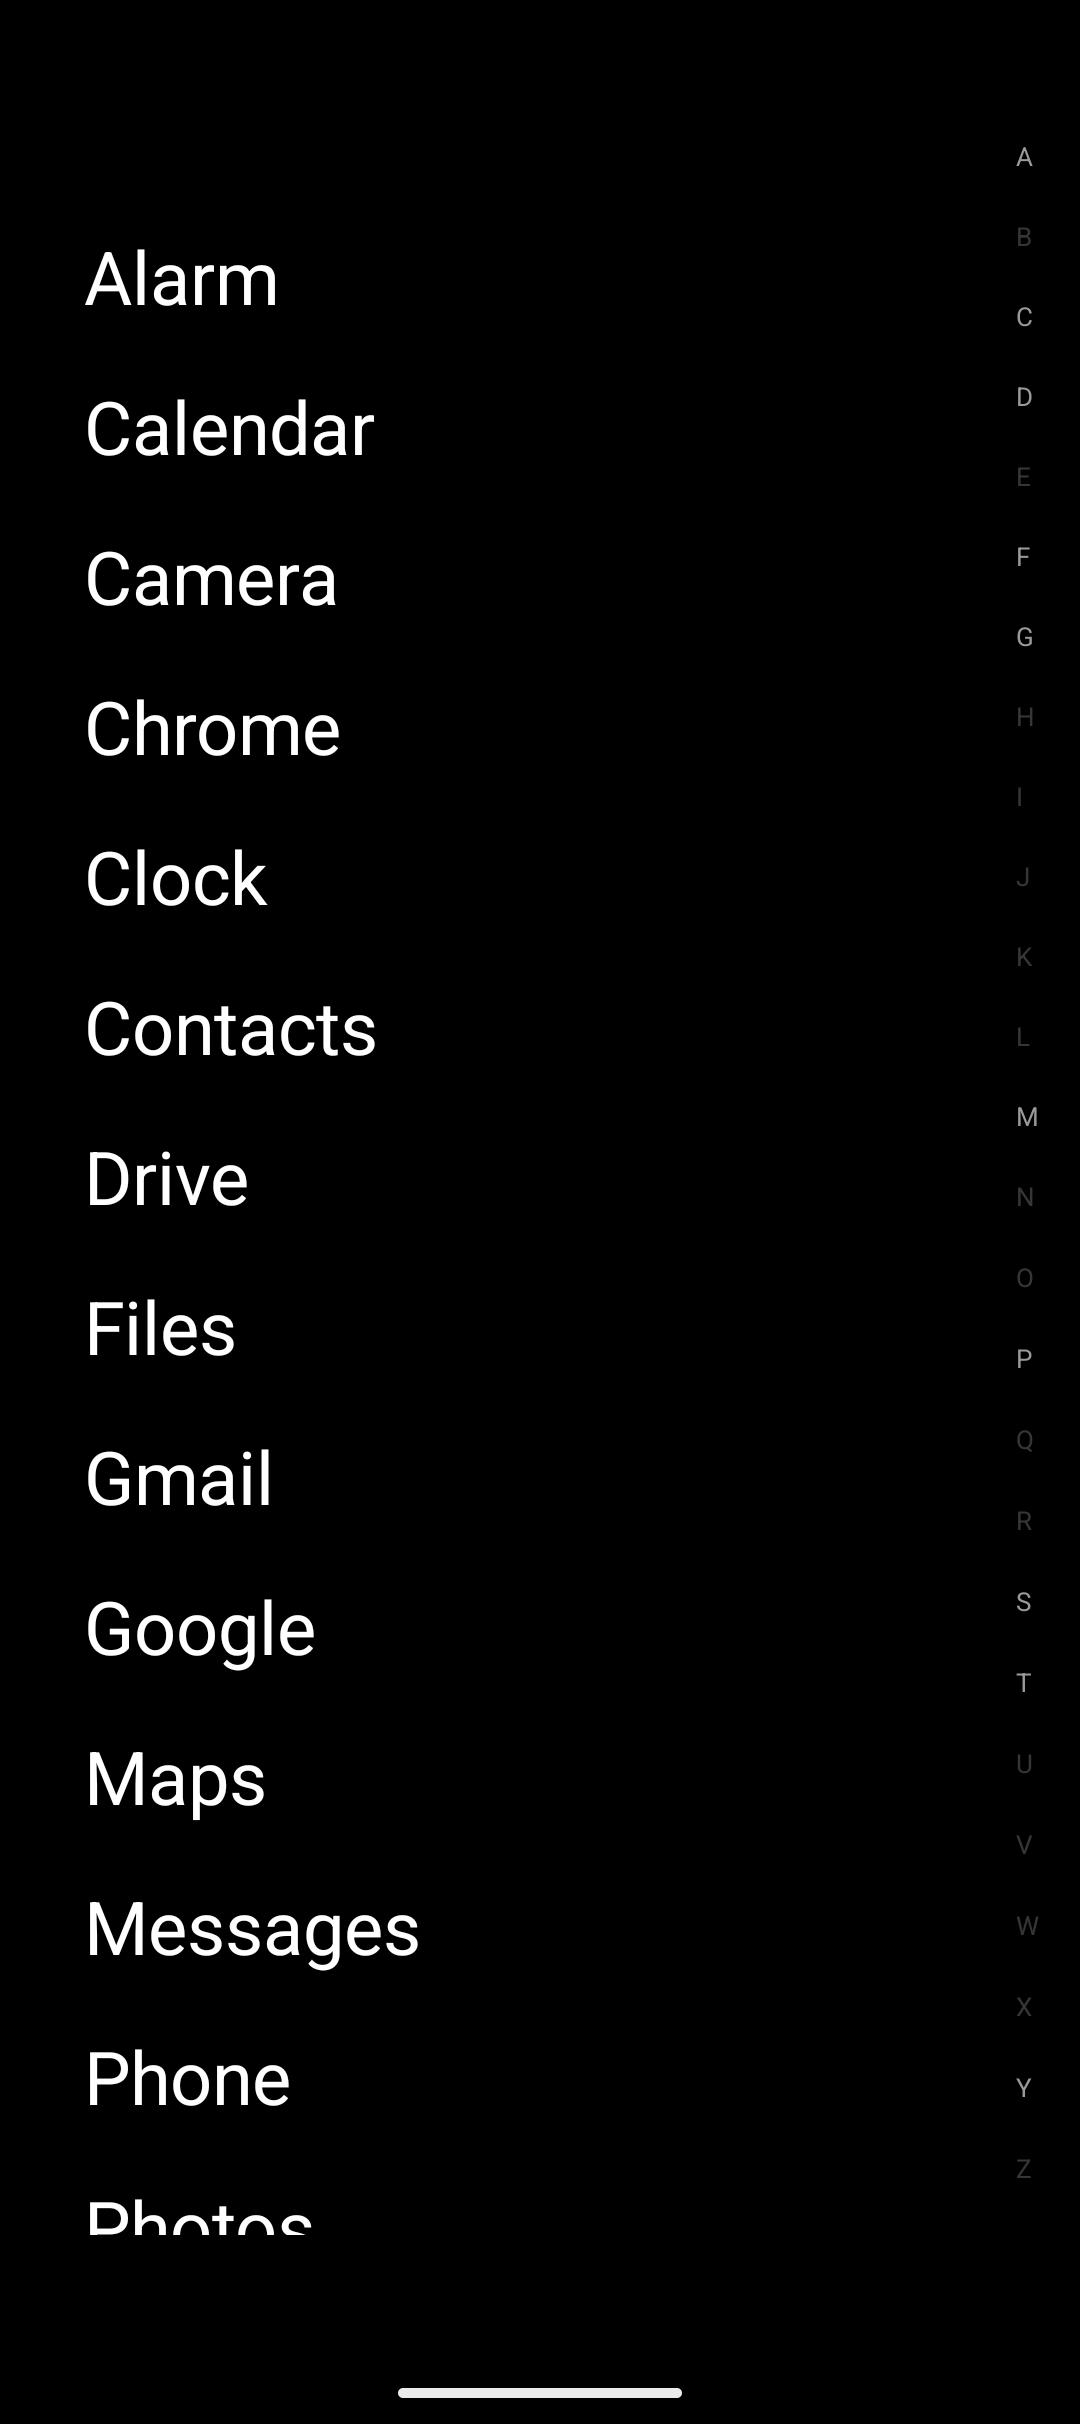
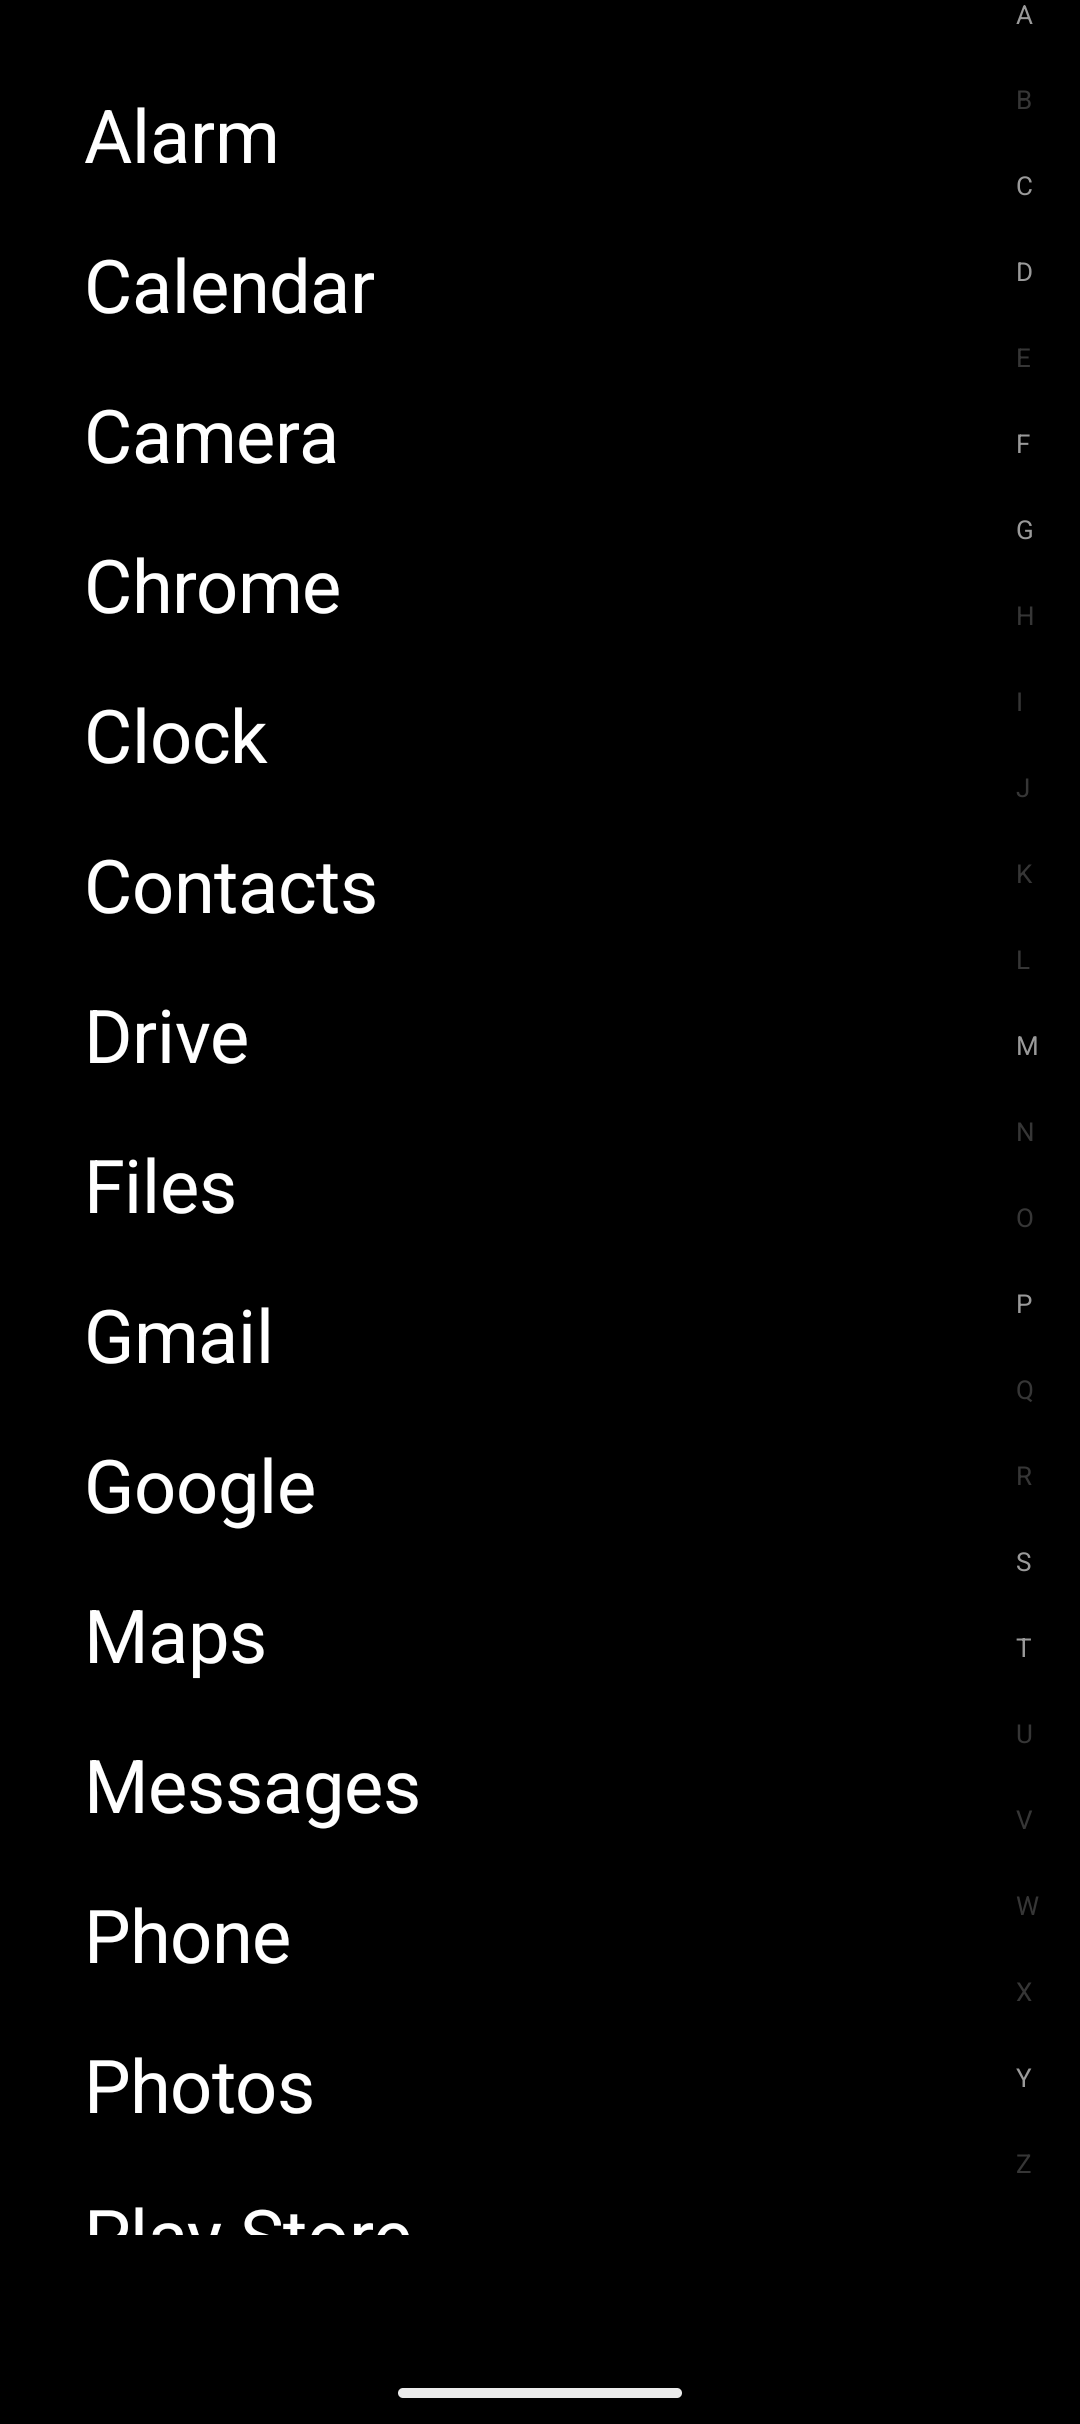
Add a Hide status bar setting, on by default
Uses WindowInsetsControllerCompat to hide the system status bar for a
cleaner look, with BEHAVIOR_SHOW_TRANSIENT_BARS_BY_SWIPE so swiping
down from the top edge still reveals it temporarily rather than
locking the user out of quick settings/notifications entirely.
Applies live when toggled, no restart needed.

Verified hidden by default on both the emulator (dumpsys window) and
the Samsung S24 (InsetsSource ... type=statusBars visible=false).

Closes #10

Changed region(s): [[0.0611, 0.0928, 0.3972, 0.9282], [0.0917, 0.0309, 0.2444, 0.0619]]

diff --git a/app/src/main/java/nl/petervanmanen/minimalauncher/data/repository/SettingsRepository.kt b/app/src/main/java/nl/petervanmanen/minimalauncher/data/repository/SettingsRepository.kt
@@ -11,6 +11,7 @@ private val ALLOW_ROTATION_KEY = booleanPreferencesKey("allow_rotation")
 private val SHOW_WEATHER_KEY = booleanPreferencesKey("show_weather")
 private val SHOW_MAP_KEY = booleanPreferencesKey("show_map")
 private val SHOW_DATE_KEY = booleanPreferencesKey("show_date")
+private val HIDE_STATUS_BAR_KEY = booleanPreferencesKey("hide_status_bar")
 
 /** Whether the launcher may rotate with the device (off by default), and which dashboard sections are shown. */
 class SettingsRepository(context: Context) {
@@ -20,6 +21,7 @@ class SettingsRepository(context: Context) {
     val showWeather: Flow<Boolean> = appContext.launcherDataStore.data.map { it[SHOW_WEATHER_KEY] ?: true }
     val showMap: Flow<Boolean> = appContext.launcherDataStore.data.map { it[SHOW_MAP_KEY] ?: true }
     val showDate: Flow<Boolean> = appContext.launcherDataStore.data.map { it[SHOW_DATE_KEY] ?: true }
+    val hideStatusBar: Flow<Boolean> = appContext.launcherDataStore.data.map { it[HIDE_STATUS_BAR_KEY] ?: true }
 
     suspend fun setAllowRotation(allow: Boolean) {
         appContext.launcherDataStore.edit { it[ALLOW_ROTATION_KEY] = allow }
@@ -35,5 +37,9 @@ class SettingsRepository(context: Context) {
 
     suspend fun setShowDate(show: Boolean) {
         appContext.launcherDataStore.edit { it[SHOW_DATE_KEY] = show }
+    }
+
+    suspend fun setHideStatusBar(hide: Boolean) {
+        appContext.launcherDataStore.edit { it[HIDE_STATUS_BAR_KEY] = hide }
     }
 }

diff --git a/app/src/main/java/nl/petervanmanen/minimalauncher/MainActivity.kt b/app/src/main/java/nl/petervanmanen/minimalauncher/MainActivity.kt
@@ -8,6 +8,9 @@ import androidx.activity.enableEdgeToEdge
 import androidx.compose.foundation.layout.fillMaxSize
 import androidx.compose.material3.Surface
 import androidx.compose.ui.Modifier
+import androidx.core.view.WindowCompat
+import androidx.core.view.WindowInsetsCompat
+import androidx.core.view.WindowInsetsControllerCompat
 import androidx.lifecycle.lifecycleScope
 import kotlinx.coroutines.launch
 import nl.petervanmanen.minimalauncher.ui.pager.RootPagerScreen
@@ -27,6 +30,19 @@ class MainActivity : ComponentActivity() {
                     ActivityInfo.SCREEN_ORIENTATION_UNSPECIFIED
                 } else {
                     ActivityInfo.SCREEN_ORIENTATION_PORTRAIT
+                }
+            }
+        }
+
+        lifecycleScope.launch {
+            container.settingsRepository.hideStatusBar.collect { hide ->
+                val insetsController = WindowCompat.getInsetsController(window, window.decorView)
+                insetsController.systemBarsBehavior =
+                    WindowInsetsControllerCompat.BEHAVIOR_SHOW_TRANSIENT_BARS_BY_SWIPE
+                if (hide) {
+                    insetsController.hide(WindowInsetsCompat.Type.statusBars())
+                } else {
+                    insetsController.show(WindowInsetsCompat.Type.statusBars())
                 }
             }
         }

diff --git a/app/src/main/java/nl/petervanmanen/minimalauncher/ui/dock/DockEditOverlay.kt b/app/src/main/java/nl/petervanmanen/minimalauncher/ui/dock/DockEditOverlay.kt
@@ -56,6 +56,7 @@ fun DockEditOverlay(viewModel: DockViewModel, currentPageIndex: Int) {
     val showWeather by viewModel.showWeather.collectAsState()
     val showMap by viewModel.showMap.collectAsState()
     val showDate by viewModel.showDate.collectAsState()
+    val hideStatusBar by viewModel.hideStatusBar.collectAsState()
     val installedApps by viewModel.installedApps.collectAsState()
     val mapsAppPackage by viewModel.mapsAppPackage.collectAsState()
     val weatherAppPackage by viewModel.weatherAppPackage.collectAsState()
@@ -77,6 +78,8 @@ fun DockEditOverlay(viewModel: DockViewModel, currentPageIndex: Int) {
                     onShowMapChange = { viewModel.setShowMap(it) },
                     showDate = showDate,
                     onShowDateChange = { viewModel.setShowDate(it) },
+                    hideStatusBar = hideStatusBar,
+                    onHideStatusBarChange = { viewModel.setHideStatusBar(it) },
                     installedApps = installedApps,
                     mapsAppPackage = mapsAppPackage,
                     onMapsAppChange = { app -> viewModel.setMapsApp(app.packageName) },

diff --git a/app/src/main/java/nl/petervanmanen/minimalauncher/ui/dock/DockViewModel.kt b/app/src/main/java/nl/petervanmanen/minimalauncher/ui/dock/DockViewModel.kt
@@ -37,6 +37,8 @@ class DockViewModel(
         .stateIn(viewModelScope, SharingStarted.WhileSubscribed(5_000), true)
     val showDate: StateFlow<Boolean> = settingsRepository.showDate
         .stateIn(viewModelScope, SharingStarted.WhileSubscribed(5_000), true)
+    val hideStatusBar: StateFlow<Boolean> = settingsRepository.hideStatusBar
+        .stateIn(viewModelScope, SharingStarted.WhileSubscribed(5_000), true)
 
     val mapsAppPackage: StateFlow<String?> = appLinkRepository.mapsAppPackage
         .stateIn(viewModelScope, SharingStarted.WhileSubscribed(5_000), null)
@@ -81,6 +83,8 @@ class DockViewModel(
     fun setShowMap(show: Boolean) = viewModelScope.launch { settingsRepository.setShowMap(show) }
 
     fun setShowDate(show: Boolean) = viewModelScope.launch { settingsRepository.setShowDate(show) }
+
+    fun setHideStatusBar(hide: Boolean) = viewModelScope.launch { settingsRepository.setHideStatusBar(hide) }
 
     fun setMapsApp(packageName: String) = viewModelScope.launch { appLinkRepository.setMapsApp(packageName) }
 

diff --git a/app/src/main/java/nl/petervanmanen/minimalauncher/ui/settings/SettingsScreen.kt b/app/src/main/java/nl/petervanmanen/minimalauncher/ui/settings/SettingsScreen.kt
@@ -42,6 +42,8 @@ fun SettingsScreen(
     onShowMapChange: (Boolean) -> Unit,
     showDate: Boolean,
     onShowDateChange: (Boolean) -> Unit,
+    hideStatusBar: Boolean,
+    onHideStatusBarChange: (Boolean) -> Unit,
     installedApps: List<InstalledApp>,
     mapsAppPackage: String?,
     onMapsAppChange: (InstalledApp) -> Unit,
@@ -96,6 +98,8 @@ fun SettingsScreen(
         ToggleRow("Show map", showMap, onShowMapChange)
         Spacer(modifier = Modifier.height(20.dp))
         ToggleRow("Show date", showDate, onShowDateChange)
+        Spacer(modifier = Modifier.height(20.dp))
+        ToggleRow("Hide status bar", hideStatusBar, onHideStatusBarChange)
 
         Spacer(modifier = Modifier.height(24.dp))
 

diff --git a/FEATURES.md b/FEATURES.md
@@ -103,6 +103,11 @@ The app is one `HorizontalPager` of three screens, dock in the center
 - [ ] **Show weather** / **Show map** / **Show date** toggles, each default
   **On**, independently show/hide their dashboard section regardless of
   location permission state. [#7]
+- [ ] **Hide status bar** toggle, default **On** (hidden by default for a
+  clean look). Applies live without restarting the app; swiping down from
+  the top edge still transiently reveals it (`BEHAVIOR_SHOW_TRANSIENT_BARS_
+  BY_SWIPE`), it doesn't lock the user out of quick settings/notifications
+  entirely. [#10]
 - [ ] **Maps app** / **Weather app** / **Date app** rows show the currently
   configured app's label (or "Not set"), and tapping opens the same
   alphabetical app picker used elsewhere to change it — a second way to

diff --git a/README.md b/README.md
@@ -24,8 +24,9 @@ link on your phone (or transfer the file over) and tap to install — see
 - **Settings** live inside that same dock editor — tap "Settings" next to the
   "×" in its header. From there: toggle whether the app follows the device's
   rotation (off by default), show/hide the weather, map, and date sections
-  independently, choose which app opens each of them, and set a pure black
-  wallpaper in one tap.
+  independently, hide the system status bar (on by default — swipe down
+  from the top edge to reveal it temporarily), choose which app opens each
+  dashboard section, and set a pure black wallpaper in one tap.
 
 ## Screens
 
